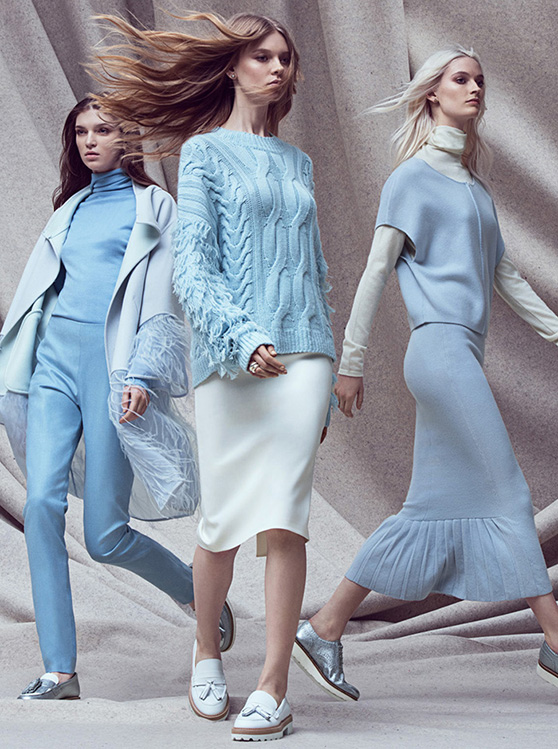
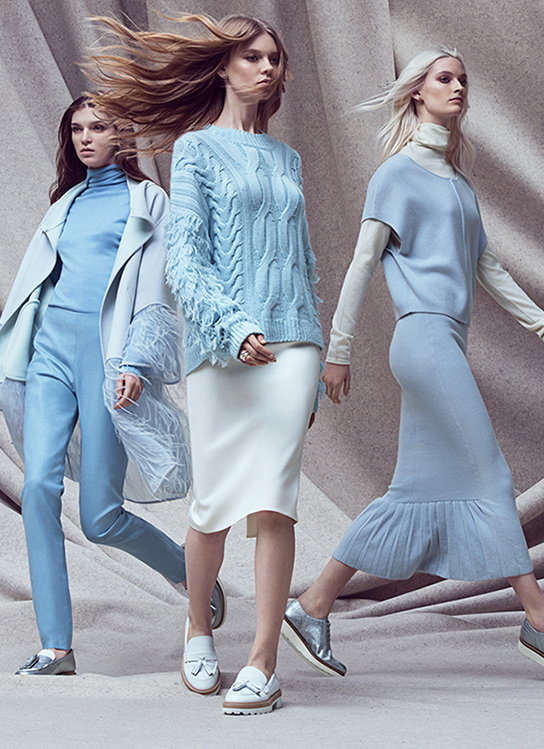
Replaced images on home page

diff --git a/profile.html b/profile.html
@@ -84,9 +84,6 @@
       </div>
     </div>
 
-
-    <script src='js/jquery.color-RGBa-patch.js'></script>
-    <script src='js/magic-line.js'></script>
     <script src="https://ajax.googleapis.com/ajax/libs/jquery/1.12.4/jquery.min.js"></script>
     <script>window.jQuery || document.write('<script src="../../assets/js/vendor/jquery.min.js"><\/script>')</script>
     <script src="js/bootstrap.min.js"></script>

diff --git a/css/style.css b/css/style.css
@@ -995,10 +995,10 @@ body {
 	}
 
 	.navbar-brand {
-	    background-image: url(../gfx/logo-intro-white.jpg);
+	    background-image: url(../gfx/logo-intro-white.png);
 	    background-position: center;
-	    width: 673px;
-    	height: 51px;
+	    width: 572px;
+        height: 44px;
 	    margin-left: 163px !important;
 	    margin-top: 50px;
 	}
